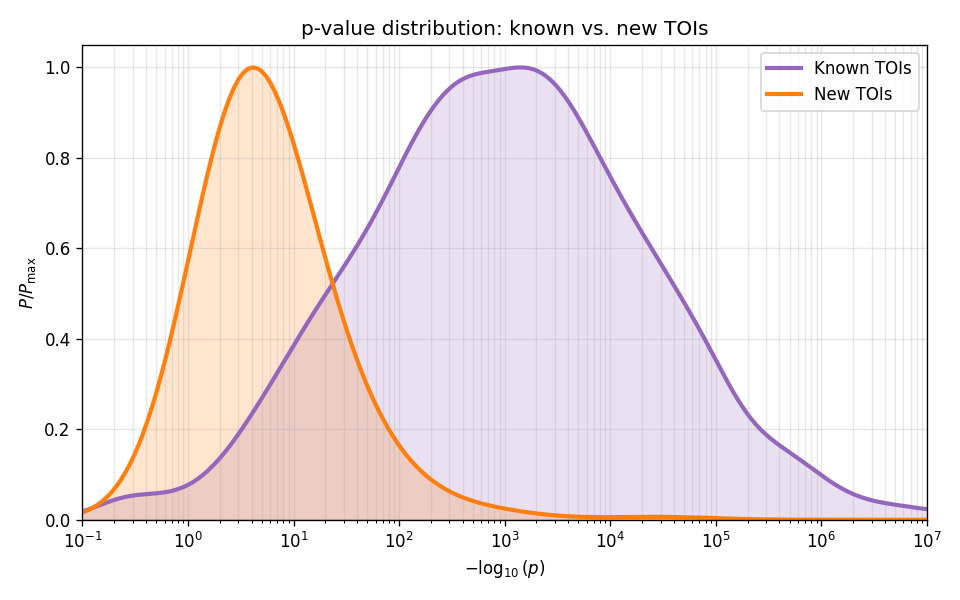
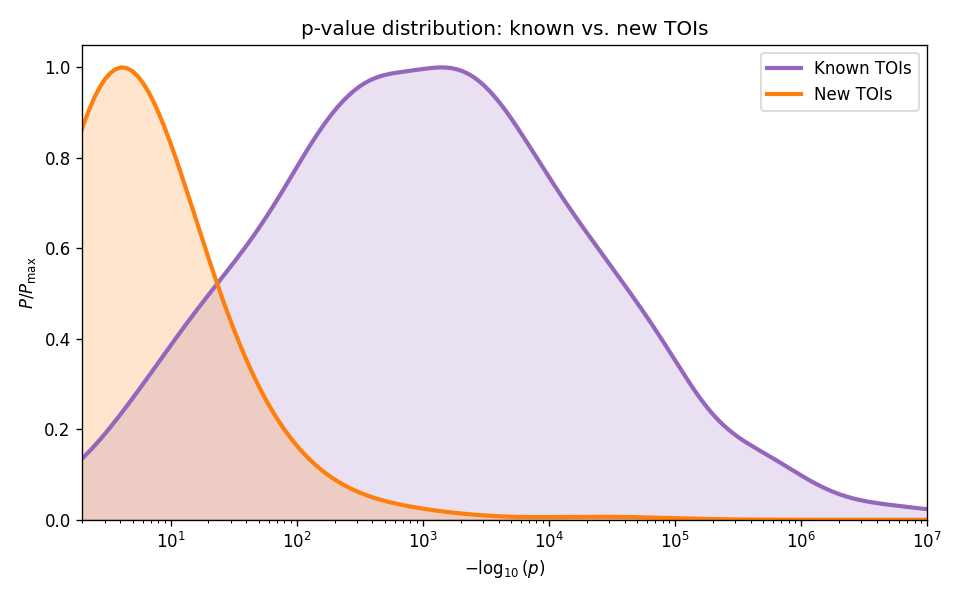
Overview: p-value dist x starts at 2, grid removed; overview.md text edits

diff --git a/overview.md b/overview.md
@@ -16,11 +16,6 @@ estimates of $\mu$ and $\sigma$ as a function of the number of NSTs used, $N$.
 
 ![Convergence of μ and σ with the number of NSTs](overview_nst_musigma.png)
 
-The left panel shows $\mu_\mathrm{null}$ and the right panel $\sigma_\mathrm{null}$
-(each thin line is one star). The mean $\mu$ stabilises almost immediately, while the standard deviation
-$\sigma$ is noisy for $N \lesssim 20$ and settles by $N \approx 30$ — so a few
-tens of NSTs suffice to pin down the null distribution.
-
 ## Is the Gaussian p-value reliable?
 
 We pick, for each star, the SNR whose **true p-value is $0.01$** (the 99th
@@ -29,12 +24,6 @@ of $N$ from the Gaussian approximation.
 
 ![Gaussian p-value at the p ≈ 0.01 threshold](overview_nst_pvalue.png)
 
-The solid line is the median across the 20 stars and the shaded band is the
-25th–75th percentile across them. The Gaussian estimate converges to the true
-$p = 0.01$ (red dashed) by $N \approx 40$ and stays within a factor of ~2 of it,
-so the per-star null max-SNR distribution is close to Gaussian and the Gaussian
-p-value is a reliable significance estimate.
-
 ## How significant are the candidates?
 
 Comparing the p-value distributions of the established (known) TOIs and our new
@@ -42,7 +31,3 @@ candidates — plotted as $-\log_{10}(p)$ on a log axis, so larger means more
 significant:
 
 ![p-value distribution of known vs. new TOIs](overview_pvalue_dist.png)
-
-The known TOIs peak around $-\log_{10}(p) \sim 10^3$ (extremely significant),
-while the new candidates peak around a few, as expected for fainter signals —
-but they still sit well below $p = 0.01$.
